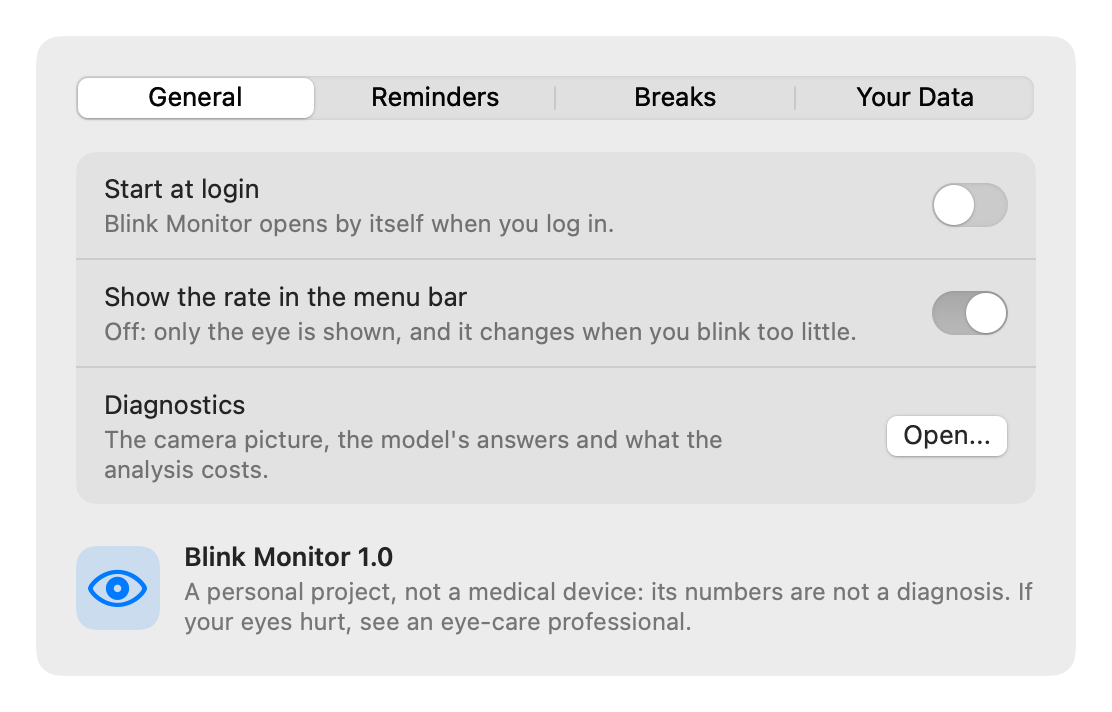
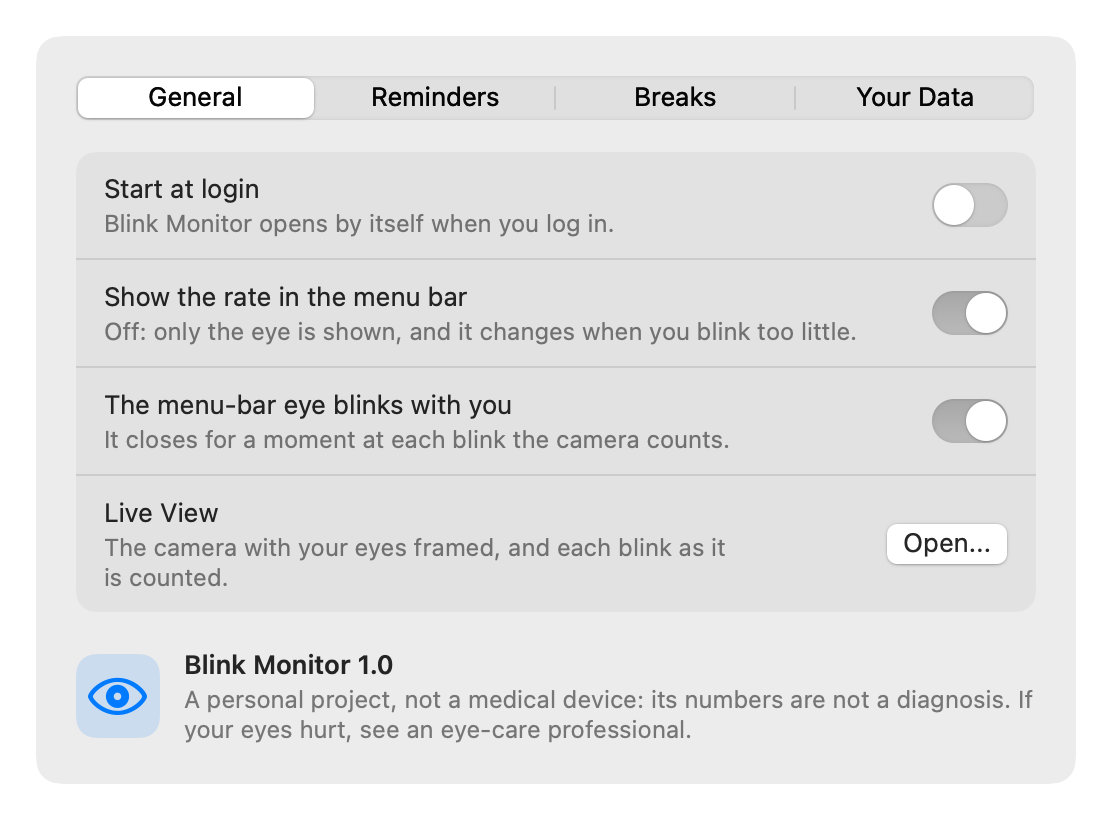
Lead the README with the demo; keep only the pictures the docs show
The README starts with `make demo`, gains Troubleshooting, "make it better
with your own blinks" and a gallery, and the lessons gain the story of the
frozen clock, including the first, wrong explanation of it.

`make snapshots` now renders every screen to build/screens and copies to
docs/img only the pictures a doc shows: 12 instead of 36.

diff --git a/README.md b/README.md
@@ -1,5 +1,7 @@
 # Blink Monitor
 
+[![CI](https://github.com/MattDupp/blink-monitor/actions/workflows/ci.yml/badge.svg)](https://github.com/MattDupp/blink-monitor/actions/workflows/ci.yml)
+
 A macOS menu-bar app that counts your blinks through the webcam, with a small neural
 network **you train on your own eyes**. Everything runs on your Mac: no picture is stored
 or sent anywhere.
@@ -12,6 +14,25 @@ or sent anywhere.
 
 <sub>Screenshots are rendered by the app itself with made-up data (`make snapshots`). A window that is never shown draws its switches grey: read a switch by the side its knob is on.</sub>
 
+## Try it first
+
+No camera, no model, nothing to record: the demo runs the whole app on made-up blinks.
+It needs an Apple Silicon Mac, macOS 14 or later and Apple's Command Line Tools
+(`xcode-select --install`), and builds in about a minute.
+
+```bash
+git clone https://github.com/MattDupp/blink-monitor.git && cd blink-monitor
+```
+
+```bash
+make demo
+```
+
+An eye marked "demo" appears in the menu bar and its panel opens. Every window works, the
+blink break counts, and the made-up eyes are counted by the same code that counts real ones.
+It never opens the camera and keeps its settings and history apart from the real app's.
+To use Blink Monitor on your own eyes, see [Train it on your own eyes](#train-it-on-your-own-eyes).
+
 ## Why
 
 People blink much less when they look at a screen, and for someone with dry eyes that is
@@ -22,6 +43,9 @@ and shipping it inside a real app.
 ## What it does
 
 - Shows your **blinks per minute** in the menu bar, with no Dock icon and no window.
+  The eye in the menu bar **blinks when you do**: the quickest proof that it sees you.
+- **Live View** shows what the app sees: the camera with your eyes framed, the model's
+  answer as a curve, and a sound at each blink it counts.
 - Keeps a **minute-by-minute history** (numbers only): today, the last hour, any of the last
   seven days hour by hour, the week as a heat map, and a few sentences on what stands out.
 - **Reminds you** when your rate stays low for three minutes; at most one reminder every
@@ -44,6 +68,23 @@ and shipping it inside a real app.
   &nbsp;
   <img src="docs/img/panel-pause-choices-dark.png" alt="The panel in dark mode, with the four pause choices" width="270">
 </p>
+
+<details>
+<summary>More screens</summary>
+<p align="center">
+  <img src="docs/img/welcome-light.png" alt="The welcome window: what the app does, where the pictures go, and where to find it afterwards" width="420">
+  &nbsp;
+  <img src="docs/img/settings-general-light.png" alt="Settings, General tab" width="420">
+</p>
+<p align="center">
+  <img src="docs/img/live-view-light.png" alt="Live View: the camera area, the model's answer as a curve with three blinks, the counters and the cost per frame" width="700">
+</p>
+<p align="center">
+  <img src="docs/img/history-day-dark.png" alt="History in dark mode, on an earlier day, with the decline against the reference reported" width="480">
+  &nbsp;
+  <img src="docs/img/panel-demo-light.png" alt="The panel in the demo, with its banner" width="270">
+</p>
+</details>
 
 ## How it works
 
@@ -127,7 +168,7 @@ thing to work on. The app logs its cost once a minute to
 
 - The camera picture is analysed in memory and dropped. Nothing is uploaded; the app makes no network connection.
 - What is kept: one line per minute (time watched, blinks) in `~/Library/Application Support/BlinkMonitor/history.csv`. Settings shows the file and can erase it.
-- Pictures are written to disk only by the recorder and by the capture buttons of the diagnostics window, when you press them, to build your own training data.
+- Pictures are written to disk only by the recorder and by the capture buttons of the Live View window, when you press them, to build your own training data.
 - This repository contains **no recordings and no trained model**. Both are personal, and both are yours to make.
 - Recordings are written to folders only your account can read.
 - Both apps are signed with macOS's hardened runtime and ask for one thing, the camera, so another program cannot load its code into them to borrow that permission.
@@ -137,32 +178,60 @@ thing to work on. The app logs its cost once a minute to
 You need an Apple Silicon Mac with macOS 14 or later, Apple's Command Line Tools
 (`xcode-select --install`; full Xcode is not required) and [uv](https://docs.astral.sh/uv/).
 
-```bash
-git clone https://github.com/MattDupp/blink-monitor.git && cd blink-monitor
-```
+`make doctor` checks all of that and says what is missing. Each command ends by naming the next one.
 
 | Step | Command | What happens |
 |---|---|---|
-| 1. Record | `make recorder` | A voice guides you through 16 poses, eyes open and closed. Two minutes a session; record five or six in different light. |
+| 1. Record | `make recorder` | A voice guides you through 16 poses, eyes open and closed. Two minutes a session; the recorder counts them and tells you when you have the five it recommends. |
 | 2. Train | `make train` | Trains the model (about a minute), reports its accuracy on sessions it never saw, converts it to Core ML and checks the conversion. |
-| 3. Run | `make monitor` | Installs the menu-bar app in `~/Applications` and starts it. |
-| 4. Measure (optional) | `make evaluate` | Counts blinks on captures you recorded and marked, with models that never saw them. |
+| 3. Run | `make monitor` | Installs the menu-bar app in `~/Applications` and starts it. macOS asks for the camera. |
 
-After step 2, look at `training/out/review_suspicious.png`: it shows the pictures the
-model disagrees with. Many will be blinks you made during an "eyes open" pose. Delete
-them, run `python3 scripts/sync_manifests.py`, and train again.
+<p align="center">
+  <img src="docs/img/recorder-session-light.png" alt="The recorder during a session: pose 5 of 16, the instruction, and how many sessions are recorded" width="700">
+</p>
+
+**Make it better with your own blinks.** The recorder's pictures are eyes held open or
+closed; a real blink is caught half-way and blurred. Once the app runs, open Live View,
+press *Record Freely (60 s)* a few times while you work, then:
+
+```bash
+make improve
+```
+
+It labels the blink frames of those captures by itself, trains again and converts. On my
+recordings this step took the count from 79% to 93% of real blinks
+([Lessons](docs/LESSONS.md), numbers 2 and 4).
+
+After training, `training/out/review_suspicious.png` shows the pictures the model
+disagrees with. Many will be blinks you made during an "eyes open" pose. Delete them, run
+`python3 scripts/sync_manifests.py`, and train again.
 [Development](docs/DEVELOPMENT.md) describes every command and file format.
+
+## Troubleshooting
+
+| What you see | Why, and what to do |
+|---|---|
+| macOS asks for the camera again | The permission belongs to one build. A rebuilt app is a new app to macOS: allow it again. |
+| "No camera" in the panel | The camera was refused. Press *Open Camera Settings* in the panel, allow Blink Monitor, and open it again. |
+| "No picture" in the panel | The camera is on but sends nothing: the lid is closed, or the camera failed. Counting resumes by itself. |
+| No eye in the menu bar | On a MacBook with many menu-bar items, the notch can hide it. Quit a few, or use a menu-bar manager. |
+| No reminder ever shows | Settings > Reminders > *Send a Test Reminder*. If nothing appears, allow notifications for Blink Monitor in System Settings. |
+| A banner with a blank icon after reinstalling | Notification Centre kept the old one. Run `killall NotificationCenter`; macOS restarts it. |
+| The linker prints "search path ... not found" | Harmless: two folders that only exist inside Xcode. `make` hides them. |
+
+To remove the app: `make uninstall`. It keeps your history, your recordings and your model, and says where they are.
 
 ## Project layout
 
 ```
-Sources/BlinkCore       camera, eye finding and cropping, model, counting rules, history, file formats
-Sources/BlinkUI         the SwiftUI views both apps share
-Sources/BlinkRecorder   the app that records labelled eye pictures
-Sources/BlinkMonitor    the menu-bar app
-Tests/BlinkCoreTests    80 tests (Swift Testing)
-training/               PyTorch training, Core ML conversion, labelling and evaluation tools, 23 tests
-scripts/                app bundling, icon drawing, manifest repair
+Sources/BlinkCore        camera, eye finding and cropping, model, counting rules, history, file formats
+Sources/BlinkUI          the SwiftUI views both apps share, and the screenshot renderer
+Sources/BlinkRecorder    the app that records labelled eye pictures
+Sources/BlinkMonitor     the menu-bar app, and its demo
+Tests/BlinkCoreTests     84 tests of the rules (Swift Testing)
+Tests/BlinkMonitorTests  12 tests of the app itself: its model, its clock, the demo
+training/                PyTorch training, Core ML conversion, labelling and evaluation tools, 23 tests
+scripts/                 app bundling, prerequisite check, icon drawing, manifest repair
 docs/                   how it works, lessons, development notes
 ```
 

diff --git a/docs/DEVELOPMENT.md b/docs/DEVELOPMENT.md
@@ -12,13 +12,17 @@ Run `make` to list them.
 
 | Command | What it does |
 |---|---|
+| `make doctor` | Check that this Mac has what the project needs |
+| `make demo` | Build and start the demo: the whole app on made-up blinks, no camera, no model |
 | `make test` | Swift tests (`swift test`) and Python tests (`pytest`) |
 | `make lint` / `make format` | Check / fix the Python code's style with ruff |
 | `make recorder` | Build and open the recorder; sessions go to `data/raw` |
 | `make train` | Train, cross-validate by session, save `models/eyenet.pt`, convert to Core ML |
+| `make improve` | Label the captures recorded in Live View, train again, convert |
 | `make evaluate` | Blink-level accuracy on the annotated captures |
 | `make monitor` | Build the menu-bar app, install it in `~/Applications`, start it |
-| `make snapshots` | Render every screen, in every state worth looking at, to `docs/img` with made-up data |
+| `make uninstall` | Remove the installed app; history, recordings and model are kept |
+| `make snapshots` | Render every screen of both apps, in every state worth looking at, to `build/screens` with made-up data; the pictures the docs show are copied to `docs/img` |
 | `make icon` | Draw the app icon |
 | `make clean` | Remove build products. Never touches `data/` or `models/` |
 
@@ -53,12 +57,13 @@ Sources/BlinkUI/             the camera preview and its notes, shown by both app
 Sources/BlinkRecorder/       the recording app
 Sources/BlinkMonitor/
     App/         entry point, MonitorModel (the facts), Preferences (every stored
-                 choice), the pipeline, one small controller per subject, the
-                 screenshot renderer
+                 choice), the pipeline, one small controller per subject, the demo
+                 (DemoCamera), the made-up data and the list of screenshots
     MenuBar/     status item, panel, and the history, settings, blink-break and
-                 welcome windows
-    Diagnostics/ the diagnostics window
-Tests/BlinkCoreTests/        Swift Testing suites
+                 welcome windows; Moment (the clock a window reads)
+    LiveView/    the Live View window: camera, curve, counters, captures
+Tests/BlinkCoreTests/        the rules: Swift Testing suites
+Tests/BlinkMonitorTests/     the app itself: its model fed by hand, the demo, its source
 training/
     paths.py, captures.py, sheets.py    folders, a typed capture, sheets of pictures
     data.py, model.py, learning.py      loading, the network, augment / train / predict
@@ -79,7 +84,7 @@ trained on them.
 | Path | Made by | Contents |
 |---|---|---|
 | `data/raw/<session>/` | the recorder | `open/`, `closed/`, `manifest.csv` |
-| `data/live/<capture>/` | the diagnostics window | `frames/`, `trace.csv`, and `blinks.csv` once annotated |
+| `data/live/<capture>/` | the Live View window | `frames/`, `trace.csv`, and `blinks.csv` once annotated |
 | `data/blinks/<capture>/` | `label_captures.py` | same shape as a session |
 | `data/removed/` | you | pictures set aside while cleaning labels |
 | `models/` | `make train` | `eyenet.pt`, `EyeNet.mlpackage`, `EyeNet.mlmodelc`, `eyenet_reference.json` |
@@ -99,7 +104,27 @@ The app's own files are in `~/Library/Application Support/BlinkMonitor/`: `histo
   the Python copy of the counting rules, including a test that its numbers equal the ones
   in `BlinkDetector.swift`.
 
+- **The app** (`Tests/BlinkMonitorTests`): the model started from a state and fed updates
+  by hand (timed pause, a camera that goes silent, the blink break), the demo's made-up
+  eyes run through the real pipeline, and one rule about the source: no view may store
+  the moment it was created (see the next section).
+
 No test needs a camera or a face.
+
+## The demo, and the clock
+
+**The demo** (`make demo`) is the same program built under another name and identifier,
+with one key in its Info.plist. `DemoCamera` replaces the camera and the model, and only
+those: its readings enter `MonitorPipeline` after the camera stage and are counted by the
+real detector, statistics and history. It has its own settings, a temporary history file,
+and never opens the camera.
+
+**The clock.** A window describes "now", and the screenshots need a fixed "now". The first
+version gave every view `var now = Date()`. A view is created once, so that date was the
+moment the app was launched, for as long as it ran: the last-hour chart never drew a
+minute recorded after launch. A view now holds a `Moment`, which reads the clock each
+time it is asked unless a screenshot froze it, and `AtPresent` redraws when the minute
+changes. `SourceTests` fails if a stored `Date()` comes back.
 
 ## Building without Xcode
 
@@ -121,4 +146,6 @@ The project builds with the Swift Package Manager alone. Two consequences:
 - The counting rules live in `BlinkDetector.swift` and `training/detector.py`; change them together. Tests compare the numbers, and the file formats, across the two languages.
 - What a window says is derived from facts (`MonitorStatus`), never stored and kept up to date by hand.
 - A new screen or state gets a line in `Snapshots.swift`, and is looked at in light and dark before it ships.
+- To check a window in the running app without clicking, open it at launch (`--open=history,settings`) and read the app's log: `/usr/bin/log show --last 1m --predicate 'subsystem == "local.blinkmonitor"'`. In zsh, a bare `log` is a shell builtin, not this tool.
+- Made-up data lives in `SampleData.swift` and nowhere else; it never touches the user's own files.
 - Nothing personal in the repository: check `git status` before committing new files under `docs/img`.

diff --git a/docs/LESSONS.md b/docs/LESSONS.md
@@ -1,4 +1,4 @@
-# Six things this project taught me
+# Seven things this project taught me
 
 Each of these looked fine until something was measured or looked at. The numbers are from
 my own recordings: one person, one morning.
@@ -144,3 +144,25 @@ A test feeds it four weeks of steady decline and checks that nothing has moved.
 
 **What I keep from it:** a measure that adapts to its subject stops measuring it. Ask of
 any "personalised" threshold what happens when the person slowly gets worse.
+
+## 7. The chart that showed the hour before launch
+
+The panel's last-hour chart looked wrong in a screenshot: a few bars on the far left,
+nothing else. The explanation came easily: those are old minutes, the chart needs a time
+axis. An axis was added. The chart was still wrong.
+
+The cause was one line. Every window had `var now = Date()`, so that the screenshots could
+pass a fixed date. A view is created once and kept, so that date was the moment the app
+was launched. Every minute recorded afterwards was "in the future" and never drawn; after
+midnight, "today" was still yesterday. All 80 tests passed, because each test passed its
+own date, and the screenshots looked right, because they passed one too.
+
+The fix is a type that cannot hold a stale date: a window asks a `Moment` for the present
+each time it draws, and a test fails if a view stores `Date()` again. The app had no
+tests of its own, only its rules had; it has them now, and it can run on made-up eyes so
+that its windows can be exercised without a face.
+
+**What I keep from it:** a default value written to make something testable can be the
+bug, and the tests built on it will never show it. And the first plausible explanation
+of a symptom is a hypothesis: the chart was "explained" and decorated before anyone
+checked what it was drawing.

diff --git a/docs/HOW-IT-WORKS.md b/docs/HOW-IT-WORKS.md
@@ -75,7 +75,7 @@ Eyes held open or closed are not blinks. In a real blink the lid is caught half-
 blurred, and the first model missed them on the darker side of the face
 ([Lessons](LESSONS.md), number 2).
 
-The diagnostics window of the app can record every frame for 30 or 60 seconds, with the
+The app's Live View window can record every frame for 30 or 60 seconds, with the
 model's answer for each. From those captures:
 
 - `training/label_captures.py` labels frames with the rule "both eyes blink together":
@@ -139,5 +139,5 @@ The app runs all day, so its cost matters as much as its accuracy.
   This saved 15% of a frame's cost, not the 40% expected: each search got slower. The README has the numbers.
 - After 3 s without a face, one frame in six is analysed. (Both rules are one tested type, `FrameSchedule`.)
 - With no window open, the interface is updated on change and once a second.
-- The camera picture is only prepared while the diagnostics window shows it.
+- The camera picture is only prepared while the Live View window shows it.
 - The pipeline times its own stages and logs them every minute.
